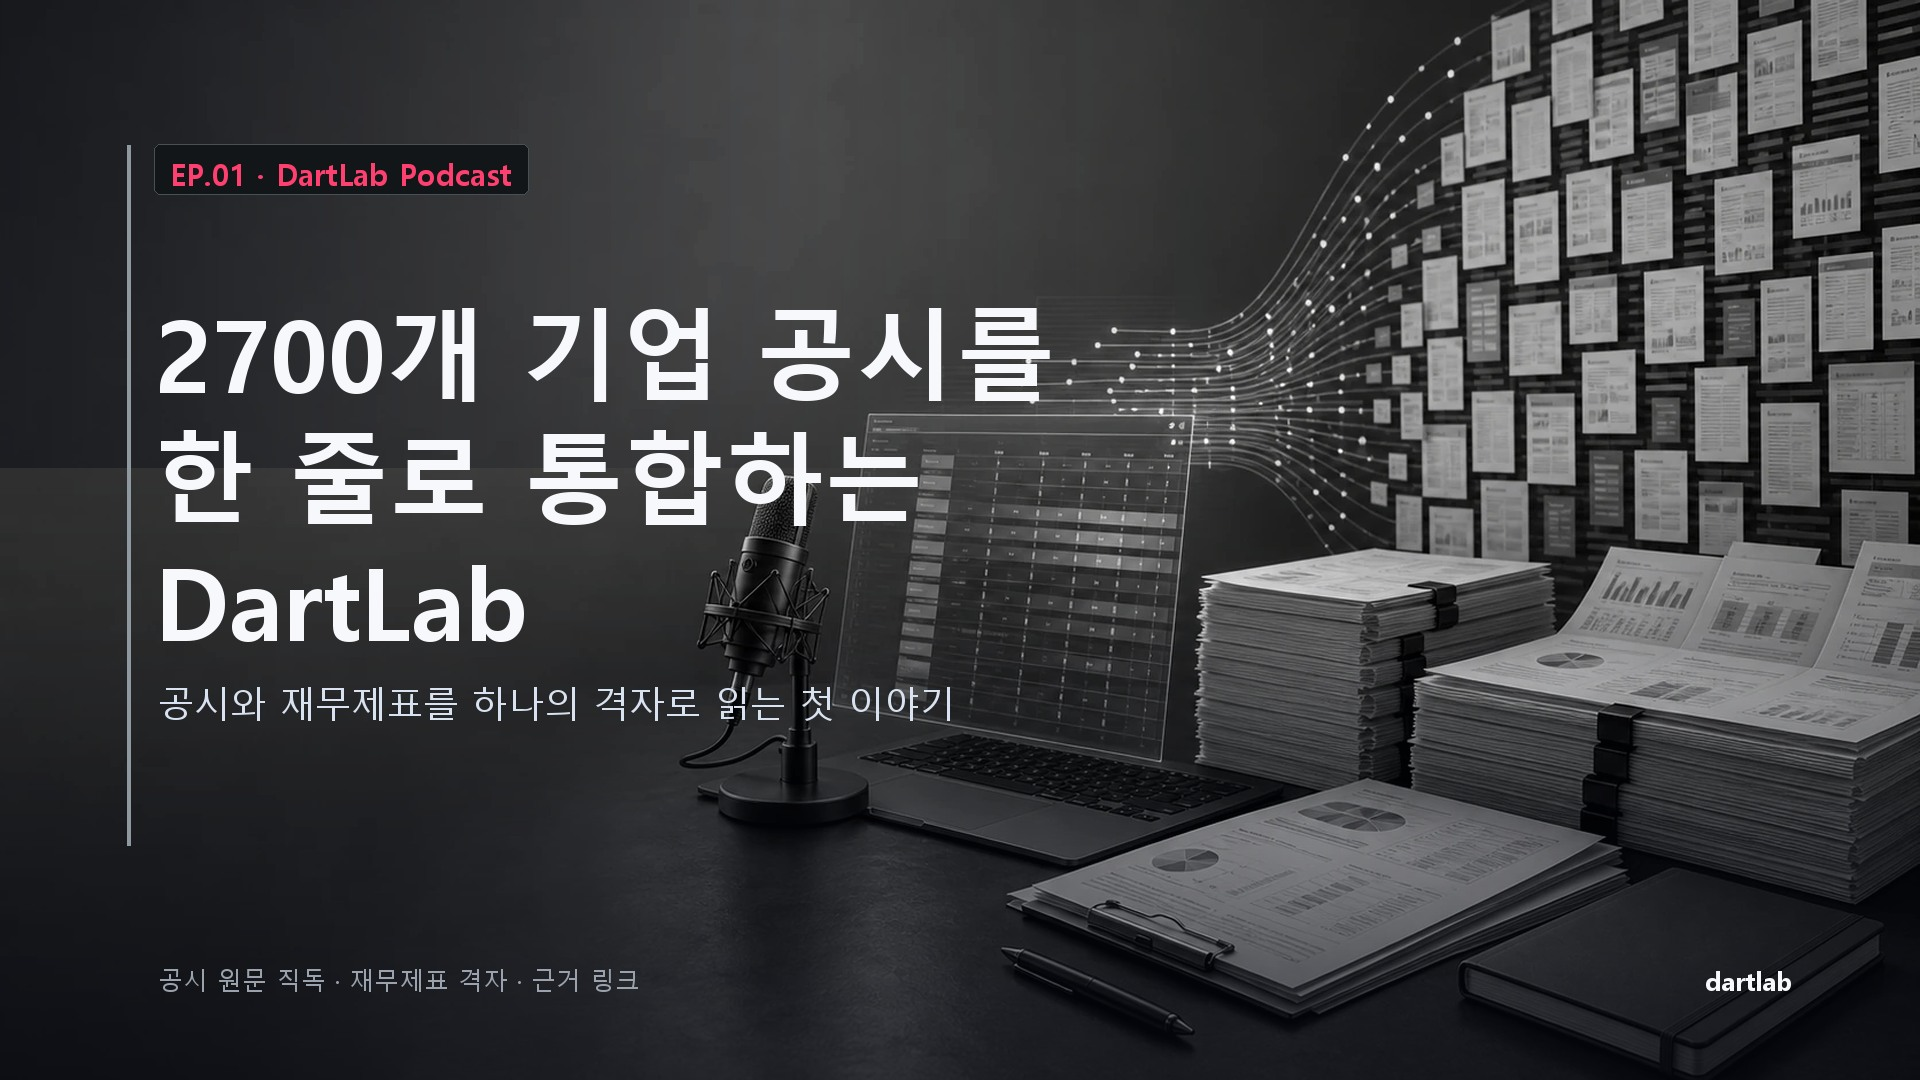
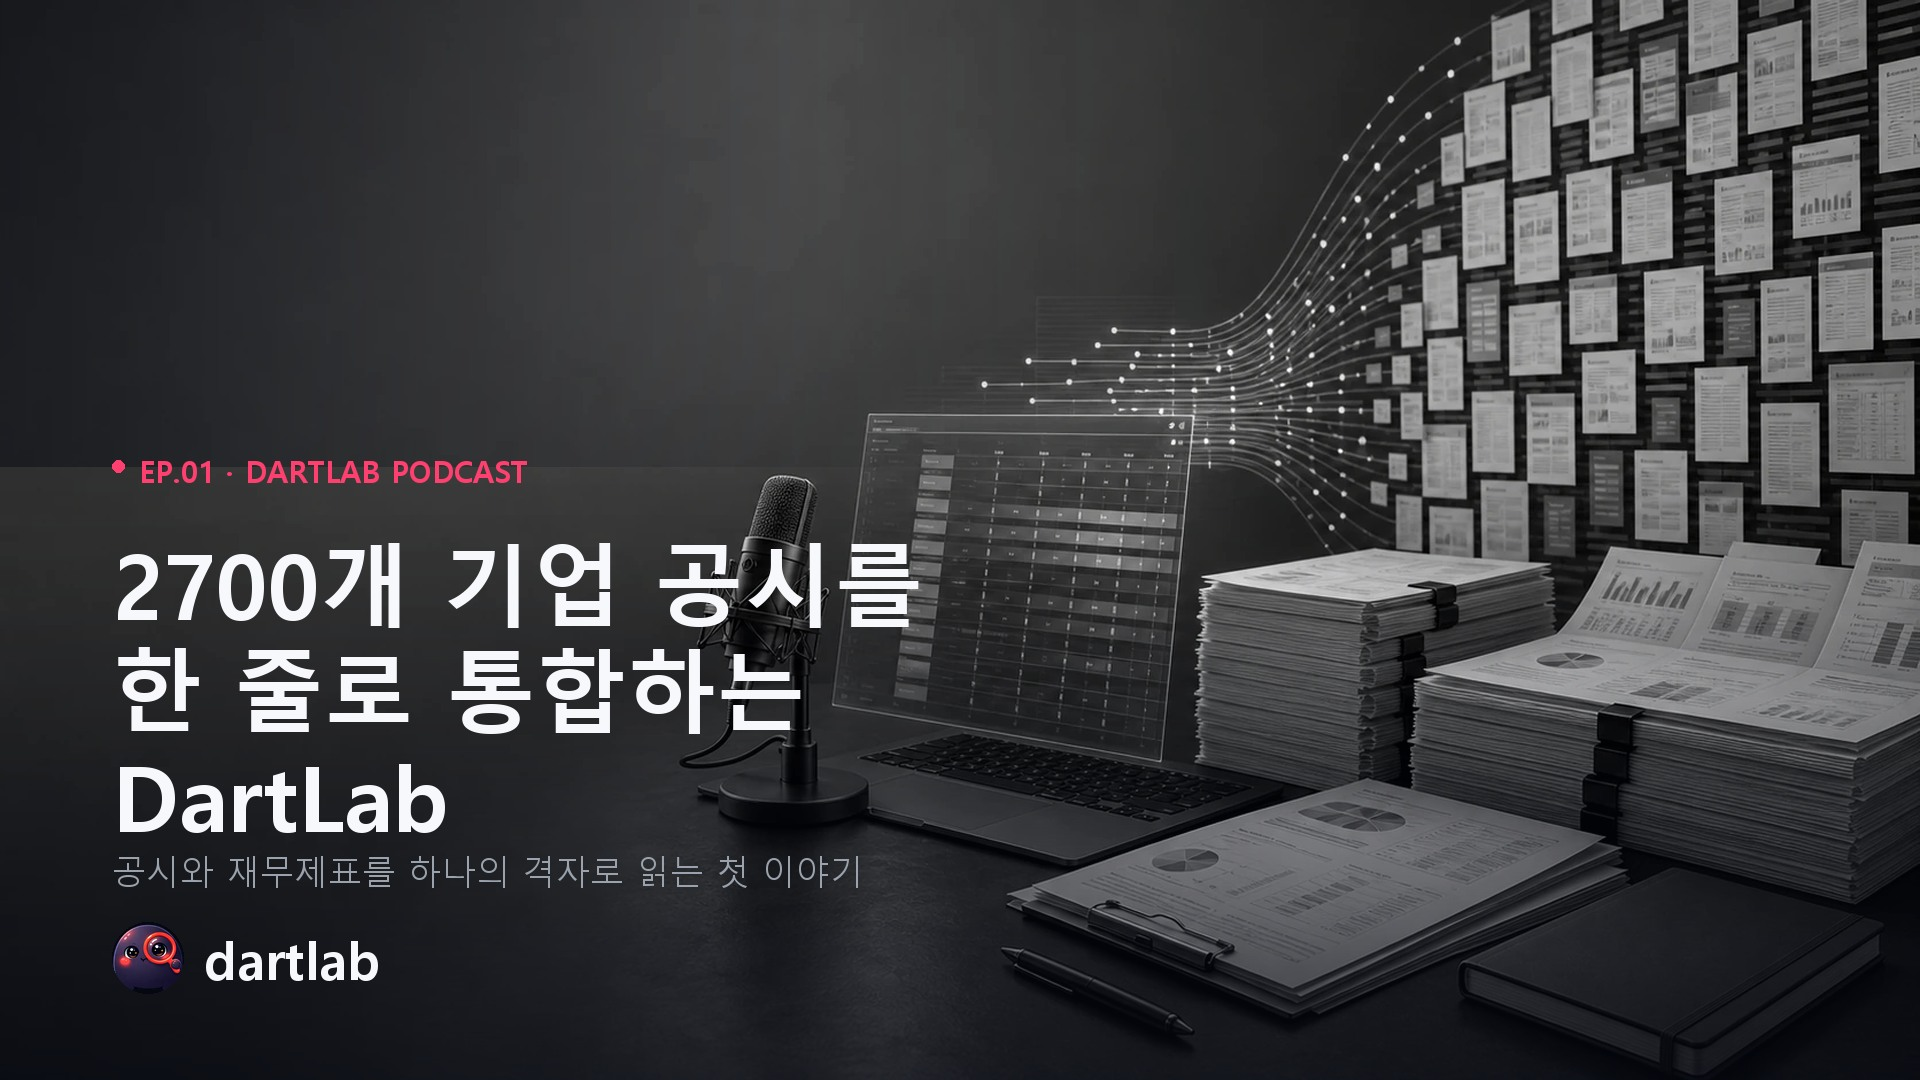
개선: 팟캐스트 스틸을 카드뉴스 구성으로 (좌측하단 아바타+dartlab, 그 위 kicker/굵은 헤드라인/작은 sub)
- render_episode_image 재구성: CardSlide 하단좌측 서명(원형 avatar.png + dartlab 워드마크) + eyebrow(accent)+굵은 헤드라인([[로즈]])+작은 sub
- 옛 우하단 dartlab 워드마크/박스 kicker 폐기
- P01·P02 커버(정사각)·정적(16:9) 재렌더, R2 재발행(오디오·guid 불변)

diff --git a/blog/_podcasts/_lib/render_episode_image.py b/blog/_podcasts/_lib/render_episode_image.py
@@ -1,8 +1,13 @@
-"""Render podcast episode still images from one reusable source artwork.
+"""Render podcast episode still images in the card visual language.
 
-The renderer keeps the source image reusable and creates two derived assets:
-  - static-video.jpg: 16:9 still image for video and thumbnail surfaces
+One reusable source artwork produces two derived stills:
+  - static-video.jpg: 16:9 still for video and thumbnail surfaces
   - cover.jpg: square RSS artwork for podcast directories
+
+Composition mirrors the card news slide (CardSlide.svelte): grayscale editorial
+background with a rose accent, and a bottom-left text block. From top to bottom the
+block is kicker(accent eyebrow), bold headline([[phrase]]=rose), small subtitle, and a
+bottom-left signature of the round dartlab avatar plus the "dartlab" wordmark.
 """
 
 from __future__ import annotations
@@ -19,24 +24,18 @@ from card_style import (
     DIM_RGB,
     GRAYSCALE,
     INK_RGB,
-    MUTED_RGB,
     accent_parts,
 )
 from PIL import Image, ImageDraw, ImageEnhance, ImageFont
 
 LIB_DIR = Path(__file__).resolve().parent
 PODCAST_DIR = LIB_DIR.parent
+ROOT = PODCAST_DIR.parents[1]
 EPISODES_DIR = PODCAST_DIR / "episodes"
+AVATAR = ROOT / "landing" / "static" / "avatar.png"
 
 FONT_BOLD = "C:/Windows/Fonts/malgunbd.ttf"
 FONT_REG = "C:/Windows/Fonts/malgun.ttf"
-
-# 카드 팔레트 미러(card_style): INK=본문, DIM=부제, MUTED=풋터, ACCENT=로즈 강조.
-INK = INK_RGB
-DIM = MUTED_RGB
-MUTED = DIM_RGB
-ACCENT = ACCENT_RGB
-BG = BG_RGB
 
 
 def load_episode(ep_dir: Path) -> dict:
@@ -81,12 +80,12 @@ def add_scrim(im: Image.Image, left_strength: int, bottom_strength: int) -> Imag
         t = 1.0 - min(1.0, x / (width * 0.72))
         a = int(left_strength * (t**1.8))
         if a:
-            d.line([(x, 0), (x, height)], fill=(BG[0], BG[1], BG[2], a))
+            d.line([(x, 0), (x, height)], fill=(BG_RGB[0], BG_RGB[1], BG_RGB[2], a))
     for y in range(height):
         t = max(0.0, (y - height * 0.42) / (height * 0.58))
         a = int(bottom_strength * (t**1.35))
         if a:
-            d.line([(0, y), (width, y)], fill=(BG[0], BG[1], BG[2], a))
+            d.line([(0, y), (width, y)], fill=(BG_RGB[0], BG_RGB[1], BG_RGB[2], a))
     return Image.alpha_composite(im.convert("RGBA"), overlay).convert("RGB")
 
 
@@ -138,76 +137,113 @@ def visual_spec(meta: dict) -> dict:
     }
 
 
-def draw_label(d: ImageDraw.ImageDraw, x: int, y: int, text: str, scale: float) -> None:
-    f = font(FONT_BOLD, round(30 * scale))
-    d.rounded_rectangle(
-        [x, y, x + round(d.textlength(text, font=f)) + round(32 * scale), y + round(50 * scale)],
-        radius=round(6 * scale),
-        fill=(18, 22, 25),
-        outline=(72, 80, 86),
-        width=max(1, round(1 * scale)),
+def paste_avatar(img: Image.Image, x: int, y: int, s: int) -> None:
+    """dartlab 아바타를 원형으로 좌측하단 서명 자리에 붙인다 (카드 아바타 규약)."""
+    circle = Image.new("RGBA", (s, s), (BG_RGB[0], BG_RGB[1], BG_RGB[2], 255))
+    if AVATAR.exists():
+        av = Image.open(AVATAR).convert("RGBA").resize((s, s), Image.LANCZOS)
+        circle.alpha_composite(av)
+    mask = Image.new("L", (s, s), 0)
+    ImageDraw.Draw(mask).ellipse((0, 0, s - 1, s - 1), fill=255)
+    img.paste(circle.convert("RGB"), (x, y), mask)
+
+
+def draw_frame(meta: dict, src: Path, out: Path, width: int, height: int, cfg: dict) -> None:
+    """카드 시각언어 스틸 한 장. 하단좌측 = 아바타+dartlab, 그 위 kicker/굵은 헤드라인/작은 sub."""
+    spec = visual_spec(meta)
+    img = add_scrim(editorial_background(src, width, height), cfg["scrimL"], cfg["scrimB"])
+    d = ImageDraw.Draw(img)
+
+    x = cfg["x"]
+    max_w = width - 2 * x
+    bottom = height - cfg["marginB"]
+
+    # 좌측하단 서명 = 원형 아바타 + dartlab 워드마크 (아바타 세로중앙에 텍스트 정렬)
+    av = cfg["avatar"]
+    sig_y = bottom - av
+    paste_avatar(img, x, sig_y, av)
+    d.text(
+        (x + av + cfg["gapAv"], sig_y + av // 2),
+        "dartlab",
+        font=font(FONT_BOLD, cfg["brand"]),
+        fill=INK_RGB,
+        anchor="lm",
     )
-    d.text((x + round(16 * scale), y + round(9 * scale)), text, fill=ACCENT, font=f)
+
+    cy = sig_y - cfg["gapSig"]  # 서명 위부터 위로 쌓는다
+
+    # 작은 sub (한 줄, 넘치면 자름)
+    sub_f = font(FONT_REG, cfg["sub"])
+    sub = truncate(d, spec["subtitle"], sub_f, max_w)
+    if sub:
+        d.text((x, cy - cfg["sub"]), sub, font=sub_f, fill=DIM_RGB)
+        cy = cy - cfg["sub"] - cfg["gapSub"]
+
+    # 굵은 헤드라인 (마지막 줄부터 위로) · [[구절]] = 로즈
+    for line in reversed(spec["titleLines"][:4]):
+        plain = "".join(t for t, _ in accent_parts(line))
+        f = fit_font(d, plain, FONT_BOLD, cfg["head"], max_w, cfg["headMin"])
+        draw_accent_line(d, x, cy - f.size, line, f, INK_RGB, ACCENT_RGB)
+        cy = cy - f.size - cfg["lineGap"]
+
+    # kicker (accent eyebrow + 점)
+    cy = cy - cfg["gapKick"]
+    k = cfg["kick"]
+    dot = int(k * 0.42)
+    ky = cy - k
+    center = ky + int(k * 0.55)
+    d.ellipse((x, center - dot // 2, x + dot, center + dot // 2), fill=ACCENT_RGB)
+    d.text((x + dot + int(k * 0.5), ky), spec["kicker"].upper(), font=font(FONT_BOLD, k), fill=ACCENT_RGB)
+
+    out.parent.mkdir(parents=True, exist_ok=True)
+    img.save(out, "JPEG", quality=cfg["q"], optimize=True)
+    print(f"[render] {out.name} {out.stat().st_size:,} B")
+
+
+COVER_CFG = {
+    "x": 210,
+    "marginB": 210,
+    "scrimL": 96,
+    "scrimB": 235,
+    "avatar": 136,
+    "brand": 100,
+    "gapAv": 36,
+    "gapSig": 66,
+    "sub": 60,
+    "gapSub": 42,
+    "head": 150,
+    "headMin": 92,
+    "lineGap": 28,
+    "gapKick": 40,
+    "kick": 54,
+    "q": 89,
+}
+STATIC_CFG = {
+    "x": 112,
+    "marginB": 86,
+    "scrimL": 120,
+    "scrimB": 185,
+    "avatar": 72,
+    "brand": 52,
+    "gapAv": 20,
+    "gapSig": 40,
+    "sub": 34,
+    "gapSub": 24,
+    "head": 90,
+    "headMin": 54,
+    "lineGap": 16,
+    "gapKick": 26,
+    "kick": 30,
+    "q": 91,
+}
 
 
 def draw_static(meta: dict, src: Path, out: Path) -> None:
-    width, height = 1920, 1080
-    spec = visual_spec(meta)
-    img = add_scrim(editorial_background(src, width, height), 120, 165)
-    d = ImageDraw.Draw(img)
-
-    x = 128
-    max_w = 1000
-    d.line([(x, 145), (x, 845)], fill=(142, 153, 160), width=4)
-    draw_label(d, x + 26, 144, spec["kicker"], 1.0)
-
-    y = 284
-    for idx, line in enumerate(spec["titleLines"][:4]):
-        size = 100 if idx < 3 else 82
-        plain = "".join(t for t, _ in accent_parts(line))
-        f = fit_font(d, plain, FONT_BOLD, size, max_w, 58)
-        draw_accent_line(d, x + 26, y, line, f, INK, ACCENT)
-        y += f.size + 24
-
-    sub_f = font(FONT_REG, 36)
-    sub = truncate(d, spec["subtitle"], sub_f, max_w)
-    d.text((x + 30, y + 22), sub, fill=DIM, font=sub_f)
-
-    foot_f = font(FONT_REG, 25)
-    d.text((x + 30, height - 118), spec["footer"], fill=MUTED, font=foot_f)
-    d.text((width - 128, height - 118), "dartlab", fill=INK, font=font(FONT_BOLD, 26), anchor="ra")
-
-    out.parent.mkdir(parents=True, exist_ok=True)
-    img.save(out, "JPEG", quality=91, optimize=True)
-    print(f"[render] static {out} {out.stat().st_size:,} B")
+    draw_frame(meta, src, out, 1920, 1080, STATIC_CFG)
 
 
 def draw_cover(meta: dict, src: Path, out: Path) -> None:
-    width, height = 3000, 3000
-    spec = visual_spec(meta)
-    img = add_scrim(editorial_background(src, width, height), 96, 225)
-    d = ImageDraw.Draw(img)
-
-    x = 220
-    y = 1500
-    max_w = width - 440
-    draw_label(d, x, y - 170, spec["kicker"], 1.35)
-    for idx, line in enumerate(spec["titleLines"][:4]):
-        size = 150 if idx < 3 else 124
-        plain = "".join(t for t, _ in accent_parts(line))
-        f = fit_font(d, plain, FONT_BOLD, size, max_w, 82)
-        draw_accent_line(d, x, y, line, f, INK, ACCENT)
-        y += f.size + 36
-
-    sub_f = font(FONT_REG, 58)
-    sub = truncate(d, spec["subtitle"], sub_f, max_w)
-    d.text((x, y + 52), sub, fill=DIM, font=sub_f)
-    d.text((x, height - 270), spec["footer"], fill=MUTED, font=font(FONT_REG, 42))
-    d.text((width - 220, height - 270), "dartlab", fill=INK, font=font(FONT_BOLD, 46), anchor="ra")
-
-    out.parent.mkdir(parents=True, exist_ok=True)
-    img.save(out, "JPEG", quality=89, optimize=True)
-    print(f"[render] cover {out} {out.stat().st_size:,} B")
+    draw_frame(meta, src, out, 3000, 3000, COVER_CFG)
 
 
 def main(argv: list[str] | None = None) -> int:
